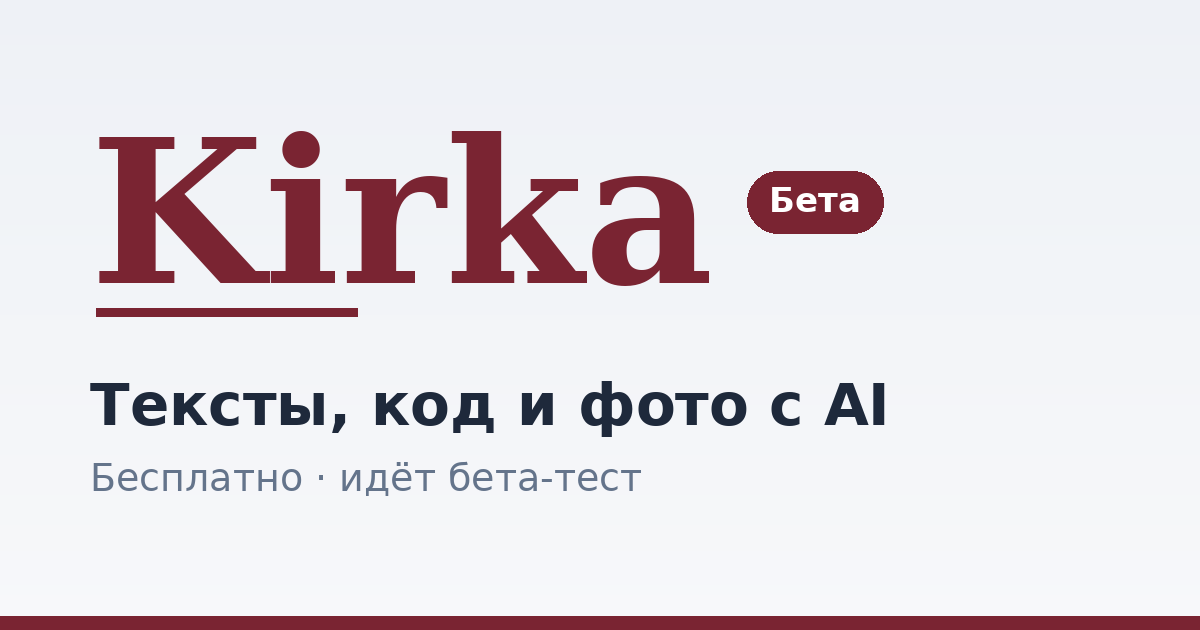
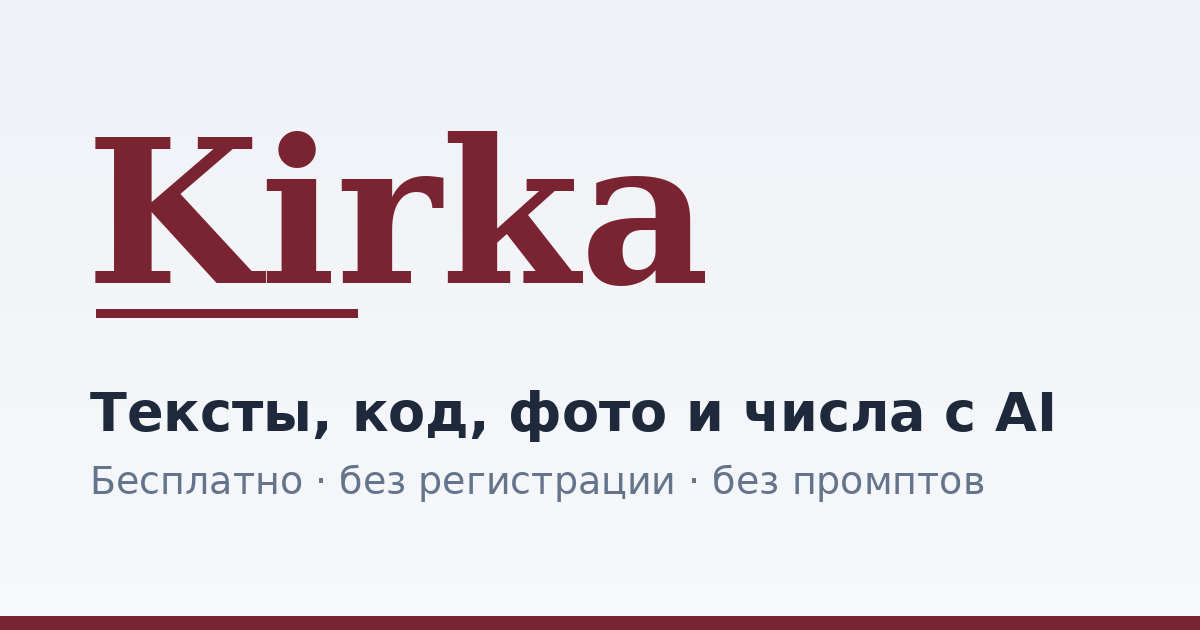
Remove beta mentions, new OG images, add numbers to descriptions

diff --git a/index.html b/index.html
@@ -21,28 +21,28 @@
     <meta name="viewport" content="width=device-width, initial-scale=1.0" />
     <meta
       name="description"
-      content="Kirka (Кирка): ИИ без промптов. Выберите вид текста, нажмите кнопку и получите резюме, письмо, поздравление или объявление. Бесплатно, без регистрации." />
+      content="Kirka (Кирка): ИИ без промптов. Выберите вид, нажмите кнопку и получите резюме, письмо, перевод кода, сжатое фото или калории блюда. Бесплатно, без регистрации." />
     <meta name="yandex-verification" content="125c4d479f76c7c0" />
     <meta name="google-site-verification"
       content="p99A9IXRBCGN_nr6j_Jjstsg0rDXBQqEjx1j62x7kpg" />
-    <title>Kirka (Кирка) — ИИ без промптов: тексты, код, фото и файлы</title>
+    <title>Kirka (Кирка) — ИИ без промптов: тексты, код, фото, файлы и числа</title>
 
     <link rel="canonical" href="https://kirka-ai.ru/" />
     <meta property="og:type" content="website" />
     <meta property="og:site_name" content="Kirka" />
     <meta property="og:locale" content="ru_RU" />
     <meta property="og:title"
-      content="Kirka (Кирка) — ИИ без промптов: тексты, код, фото и файлы" />
+      content="Kirka (Кирка) — ИИ без промптов: тексты, код, фото, файлы и числа" />
     <meta
       property="og:description"
-      content="Kirka (Кирка): ИИ без промптов. Выберите вид текста, нажмите кнопку и получите резюме, письмо, поздравление или объявление. Бесплатно, без регистрации." />
+      content="Kirka (Кирка): ИИ без промптов. Выберите вид, нажмите кнопку и получите резюме, письмо, перевод кода, сжатое фото или калории блюда. Бесплатно, без регистрации." />
     <meta property="og:url" content="https://kirka-ai.ru/" />
-    <meta property="og:image" content="https://kirka-ai.ru/og-image.png" />
+    <meta property="og:image" content="https://kirka-ai.ru/og-image.png?v=2" />
     <meta property="og:image:width" content="1200" />
     <meta property="og:image:height" content="630" />
-    <meta property="og:image:alt" content="Kirka — тексты, код и фото с AI" />
+    <meta property="og:image:alt" content="Kirka — тексты, код, фото и числа с AI" />
     <meta name="twitter:card" content="summary_large_image" />
-    <meta name="twitter:image" content="https://kirka-ai.ru/og-image.png" />
+    <meta name="twitter:image" content="https://kirka-ai.ru/og-image.png?v=2" />
     <script>
       if (!/^(localhost|127\.0\.0\.1)$/.test(location.hostname)) {
         (function (m, e, t, r, i, k, a) {
@@ -80,7 +80,7 @@
         "inLanguage": "ru",
         "applicationCategory": "UtilitiesApplication",
         "operatingSystem": "Web",
-        "description": "Kirka (Кирка) — бесплатный сервис: ИИ без промптов. Выберите, что написать, и получите резюме, письмо, поздравление или объявление; переводит код между языками программирования, сжимает фото и конвертирует PDF, Word и изображения. Идёт бета-тест.",
+        "description": "Kirka (Кирка) — бесплатный сервис: ИИ без промптов. Выберите, что написать, и получите резюме, письмо, поздравление или объявление; переводит код между языками программирования, сжимает фото, конвертирует PDF, Word и изображения и считает калории без взвешивания.",
         "offers": { "@type": "Offer", "price": "0", "priceCurrency": "RUB" }
       }
     </script>
@@ -94,8 +94,8 @@
       <h1>Kirka (Кирка)</h1>
       <p>Kirka (Кирка) — бесплатный сервис: ИИ пишет резюме, письма,
         поздравления и объявления, переводит код между языками программирования;
-        также сжимает фото и конвертирует PDF, Word и изображения. Идёт
-        бета-тест.</p>
+        также сжимает фото, конвертирует PDF, Word и изображения и считает
+        калории без взвешивания.</p>
     </div>
     <script type="module" src="/src/main.jsx"></script>
   </body>

diff --git a/src/pages/PrivacyPage.jsx b/src/pages/PrivacyPage.jsx
@@ -150,7 +150,7 @@ export function PrivacyPage() {
           </h1>
           <p className="text-xs text-slate-400">
             Политика в отношении обработки персональных данных. Редакция от 10
-            ноября 2026. Сайт находится в бета-тесте.
+            ноября 2026.
           </p>
         </div>
 
@@ -319,7 +319,7 @@ export function PrivacyPage() {
           <p className={textClass}>
             Содержимое форм и ваши файлы в Метрику не передаются. Запись
             действий на странице (Вебвизор) отключена. Рекламные и
-            ретаргетинговые cookie на этапе бета-теста не применяются.
+            ретаргетинговые cookie не применяются.
           </p>
           <p className={textClass}>
             Отказаться от статистики можно в настройках браузера (отключить

diff --git a/src/pages/PhotoPage.jsx b/src/pages/PhotoPage.jsx
@@ -199,7 +199,7 @@ export function PhotoPage() {
             placeholder="Выбери режим"
           />
           <p className="text-xs text-slate-400 px-1">
-            Новые возможности будут открываться в ходе бета-теста.
+            Новые возможности появятся позже.
           </p>
         </div>
         <Collapse show={photoForm.mode.value === 'compress'}>
@@ -219,7 +219,7 @@ export function PhotoPage() {
                 isOptionDisabled={(option) => option.locked}
               />
               <p className="text-xs text-slate-400 px-1">
-                Улучшенная модель с лучшей детализацией откроется в ходе бета-теста.
+                Улучшенная модель с лучшей детализацией откроется позже.
               </p>
             </div>
             <div className="flex flex-col gap-1">

diff --git a/src/data/pageDescriptions.js b/src/data/pageDescriptions.js
@@ -33,9 +33,9 @@ export const pageDescriptions = {
 
 export const defaultDescription = {
   title: 'Kirka',
-  text: 'ИИ без промптов: выберите вид, нажмите кнопку, и текст готов. Бесплатный сервис: тексты, перевод кода, сжатие фото и конвертация файлов.',
+  text: 'ИИ без промптов: выберите вид, нажмите кнопку, и текст готов. Бесплатный сервис: тексты, перевод кода, сжатие фото, конвертация файлов и калькулятор калорий.',
   points: [],
 };
 
 export const descriptionFooter =
-  'Сервис бесплатный и находится в бета-тесте. Дневной лимит: 30-300 запросов.';
+  'Сервис бесплатный. Дневной лимит: 30-300 запросов.';

diff --git a/src/components/Logo.jsx b/src/components/Logo.jsx
@@ -118,7 +118,7 @@ export function LogoInfo({ children, className = 'items-start' }) {
               Kirka (Кирка)
             </p>
             <p className="mb-2 text-xs leading-relaxed text-slate-600">
-              Бесплатный сервис для повседневных задач. Идёт бета-тест.
+              Бесплатный сервис для повседневных задач: тексты, код, фото, файлы и калории.
             </p>
             <ul className="space-y-1.5 text-xs leading-relaxed text-slate-600">
               <li>

diff --git a/photo-server/app.py b/photo-server/app.py
@@ -322,7 +322,7 @@ def process():
     if mode in HEAVY_MODES and mode not in ENABLED_HEAVY_MODES:
         return jsonify({
             "error": "beta_locked",
-            "message": "Этот режим откроется в ходе бета-теста. Следи за обновлениями!",
+            "message": "Этот режим откроется позже. Следи за обновлениями!",
         }), 403
 
     # Улучшение качества: уровень 1-2 открыт, 3-4 (тариф «Улучшенная») — позже.
@@ -336,7 +336,7 @@ def process():
         if request.form.get("tier", "basic") != "basic" or level not in (1, 2):
             return jsonify({
                 "error": "tier_locked",
-                "message": "Этот уровень откроется в ходе бета-теста.",
+                "message": "Этот уровень откроется позже.",
             }), 400
 
     limit_response = check_limit(level if mode == "upscale" else 1)
